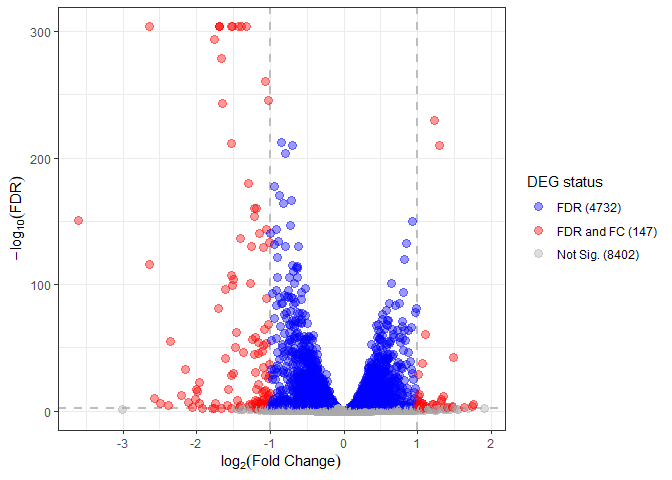
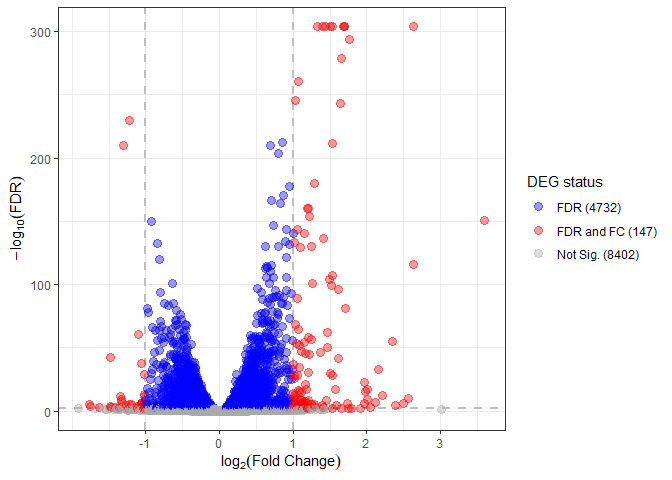
updated report

diff --git a/rmd_reports/ribodepleted_DEGs.md b/rmd_reports/ribodepleted_DEGs.md
@@ -214,7 +214,7 @@ temp
 
 ``` r
 # Re-define base condition
-annot$condition <- relevel(annot$condition, ref = "HG")
+annot$condition <- relevel(annot$condition, ref = "HF")
 # Make DESeq object
 dds <- DESeqDataSetFromMatrix(countData = exp_matrix,
                               colData = annot,
@@ -241,11 +241,11 @@ dds <- DESeq(dds)
 resultsNames(dds)
 ```
 
-    ## [1] "Intercept"           "condition_LG_vs_HG"  "condition_HF_vs_HG" 
-    ## [4] "condition_PTS_vs_HG" "condition_QUE_vs_HG"
+    ## [1] "Intercept"           "condition_LG_vs_HF"  "condition_HG_vs_HF" 
+    ## [4] "condition_PTS_vs_HF" "condition_QUE_vs_HF"
 
 ``` r
-comparison <- "condition_HF_vs_HG"
+comparison <- "condition_HG_vs_HF"
 
 de_res <- results(dds,
                   name=comparison,
@@ -291,7 +291,7 @@ how increasing glucose levels affects gene expression without fat?
 
 ``` r
 # Re-define base condition
-annot$condition <- relevel(annot$condition, ref = "LG")
+annot$condition <- relevel(annot$condition, ref = "HF")
 # Make DESeq object
 dds <- DESeqDataSetFromMatrix(countData = exp_matrix,
                               colData = annot,
@@ -318,11 +318,11 @@ dds <- DESeq(dds)
 resultsNames(dds)
 ```
 
-    ## [1] "Intercept"           "condition_HG_vs_LG"  "condition_HF_vs_LG" 
-    ## [4] "condition_PTS_vs_LG" "condition_QUE_vs_LG"
+    ## [1] "Intercept"           "condition_LG_vs_HF"  "condition_HG_vs_HF" 
+    ## [4] "condition_PTS_vs_HF" "condition_QUE_vs_HF"
 
 ``` r
-comparison <- "condition_HF_vs_LG"
+comparison <- "condition_LG_vs_HF"
 
 de_res <- results(dds,
                   name=comparison,
@@ -882,7 +882,7 @@ res_rec   <- results(dds, name = "recovery_Recovery_vs_Disease")
 ```
 
 ``` r
-alpha <- 0.05          # FDR cutoff
+alpha <- 0.01          # FDR cutoff
 lfc   <- 1             # effect-size cutoff (log2FC)
 
 ## 4a: genes that go UP LG→HG→HF ...
@@ -906,14 +906,50 @@ genes_rec_up   <- rownames(dds)[rec_up]
 
 recovery_general <- data.table(genes = c(genes_rec_down, genes_rec_up))
 recovery_general[, recovery := ifelse(genes %in% genes_rec_down, "Down", "Up")]
+
+# # Save 
+# out_file <- file.path(out_path, paste("deseq2_PseudoTime_", 
+#                                       "RecoveryList",
+#                                       "_FDR", str_replace(alpha, "\\.", ""),
+#                                       ".tsv", sep = ""))
+# if(!file.exists(out_file)){
+#   output_table = recovery_general
+#   fwrite(x = output_table, file = out_file, 
+#          append = FALSE, quote = FALSE, sep = '\t', 
+#          row.names = FALSE, col.names = TRUE)
+# }
+# 
+# 
+# temp <- data.table(counts(dds, normalized=TRUE), keep.rownames = TRUE)
+# setnames(temp, "rn", "geneID")
+# 
+# temp[,  C := rowMeans(.SD), .SDcols = c("C1_S44", "C2_S45", "C3_S46")]
+# temp[,  F := rowMeans(.SD), .SDcols = c("F1_S47","F2_S48","F3_S49","F4_S50")]
+# temp[,  L := rowMeans(.SD), .SDcols = c("L1_S57", "L2_S58", "L3_S59")]
+# temp[,  P := rowMeans(.SD), .SDcols = c("P1_S54", "P2_S55", "P3_S56")]
+# temp[,  Q := rowMeans(.SD), .SDcols = c("Q1_S51", "Q2_S52", "Q3_S53")]
+# 
+# temp <- temp[, .SD, .SDcols = c("geneID", "C", "F", "L", "P", "Q")]
+# setnames(temp, c("geneID", "C", "F", "L", "P", "Q"), c("geneID", "HG", "HF", "LG", "PTS", "QUE"))
+# 
+# 
+# # Save 
+# out_file <- file.path(out_path, "deseq2_avg_norm_counts.tsv")
+# if(!file.exists(out_file)){
+#   output_table = temp
+#   fwrite(x = output_table, file = out_file, 
+#          append = FALSE, quote = FALSE, sep = '\t', 
+#          row.names = FALSE, col.names = TRUE)
+# }
 ```
 
 ``` r
 ## ------------------------------------------
 ## 1. pick the most significant “recovery” gene
 ## ------------------------------------------
-gene_id <- genes_rec_up[19]
-# gene_id <- genes_rec_down[36]
+# gene_id <- "ANLN"
+# gene_id <- genes_rec_up[19]
+gene_id <- genes_rec_down[14]
 
 ## ------------------------------------------
 ## 2. extract normalised counts + metadata
